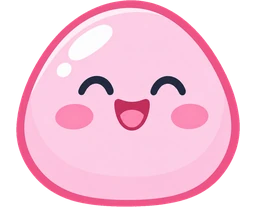
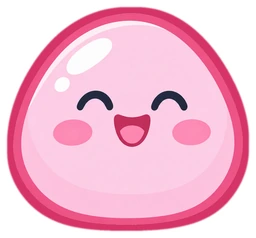
Header: outlined sticker Mochi from the app's happy face
- happy-header.webp is rebuilt from the app's own mochi-face-happy.png
  with a raspberry outline and a white sticker rim, so the small logo
  reads on the pink header band and matches the outlined Mochi of the
  app reference and the new hero art (256 × 238).
- SiteHeader image height updated; header-artwork.md now documents how
  the asset is made.

Claude-Session: https://claude.ai/code/session_01ToUdgrAjtHUxi377A78jyL

diff --git a/src/features/landing/components/shared/SiteHeader.tsx b/src/features/landing/components/shared/SiteHeader.tsx
@@ -44,7 +44,7 @@ export function SiteHeader({ homeHref = "#top", sectionBase = "", localeRoute = 
           className="flex shrink-0 items-center gap-6 text-white text-u-25 font-ultra leading-none tracking-[-0.02em] max-poster:gap-[8px] max-poster:text-[26px] max-nav:text-[24px]"
           aria-label={common("brandHome")}
         >
-          <Image className="w-42 h-auto max-poster:w-[44px] max-nav:w-[40px]" src={LANDING_ASSETS.faces.headerHappy} alt="" width={256} height={207} priority />
+          <Image className="w-42 h-auto max-poster:w-[44px] max-nav:w-[40px]" src={LANDING_ASSETS.faces.headerHappy} alt="" width={256} height={238} priority />
           <span>{common("brand")}</span>
         </a>
         <nav className="absolute left-225 flex gap-45 max-poster:static max-poster:ml-auto max-poster:mr-[28px] max-poster:gap-[28px] max-nav:hidden" aria-label={navigation("mainLabel")}>

diff --git a/src/features/landing/content/header-artwork.md b/src/features/landing/content/header-artwork.md
@@ -1,10 +1,11 @@
 # Happy header Mochi
 
-Asset: `public/mochi/faces/happy-header.webp` (256 × 207, transparent WebP).
-Created with the built-in ImageGen tool using `public/mochi/faces/happy.webp` as the edit target,
-then trimmed to its transparent bounds and optimized for the header. The asset manifest exposes
-it as `LANDING_ASSETS.faces.headerHappy`.
+Asset: `public/mochi/faces/happy-header.webp` (256 × 238, transparent WebP).
+Made from the iOS app's own `mochi-face-happy.png` (MochiDesign/Resources/MochiPictures), so the
+header shows exactly the app's Mochi. A raspberry outline (#d63467) and a white sticker rim are
+added around its silhouette so it reads on the pink header band and matches the outlined Mochi in
+the app reference art. Trimmed to its transparent bounds; the asset manifest exposes it as
+`LANDING_ASSETS.faces.headerHappy`.
 
-Prompt:
-
-> Use case: precise-object-edit. Edit the supplied pink happy Mochi mascot for use as the small header brand icon. Remove all three golden stars and any sparkle particles around the character. Preserve the same pink Mochi character exactly: same squat rounded triangular rice-cake body, happy closed curved navy eyes, open smiling mouth, rosy oval cheeks, pale pink shading and white gloss. Do not add hands, props, outlines, text, or decorations. Keep the original clean soft illustrated style and colors. The mascot alone should be centered with a small, equal transparent margin around its visible silhouette, with no excess empty space above or below. Preserve a genuinely transparent background. A plain happy Mochi without any stars or sparkles; only the character.
+To rebuild: trim the app picture, scale to 512 px wide, dilate its alpha by 13 px for the outline
+and the result by 11 px for the white rim (light 1.2 px blur on each), then resize to 256 px wide.
